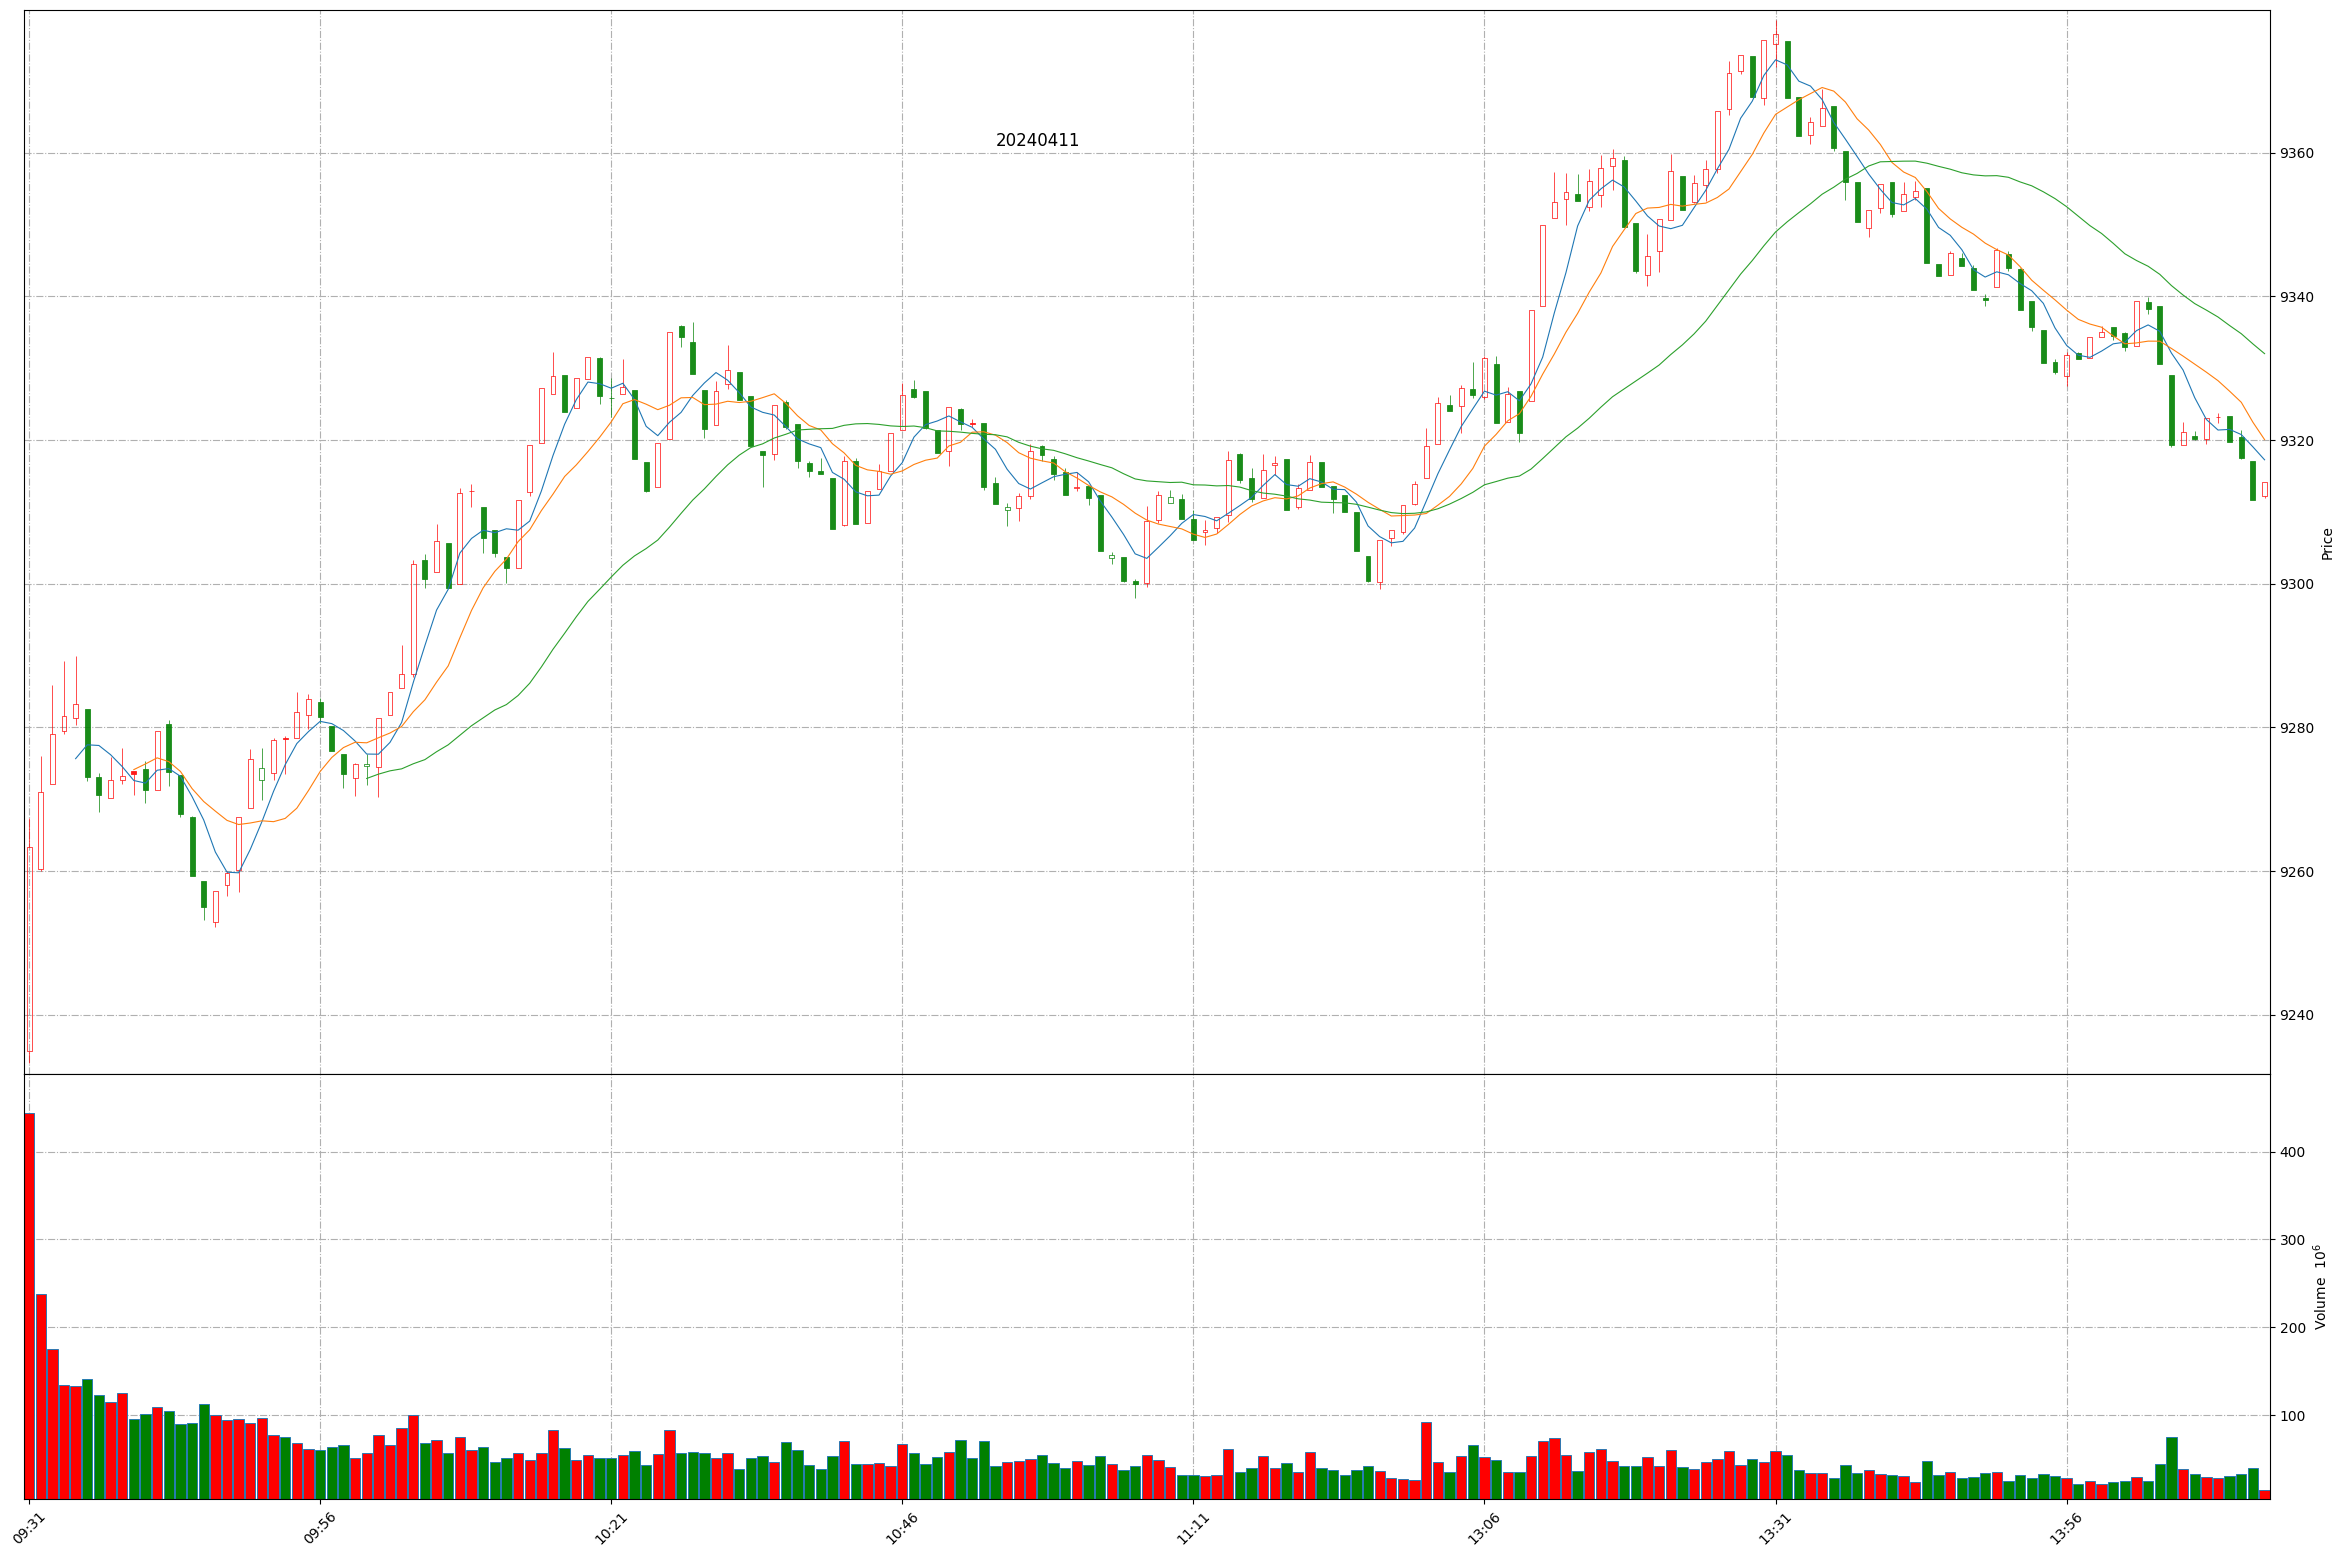
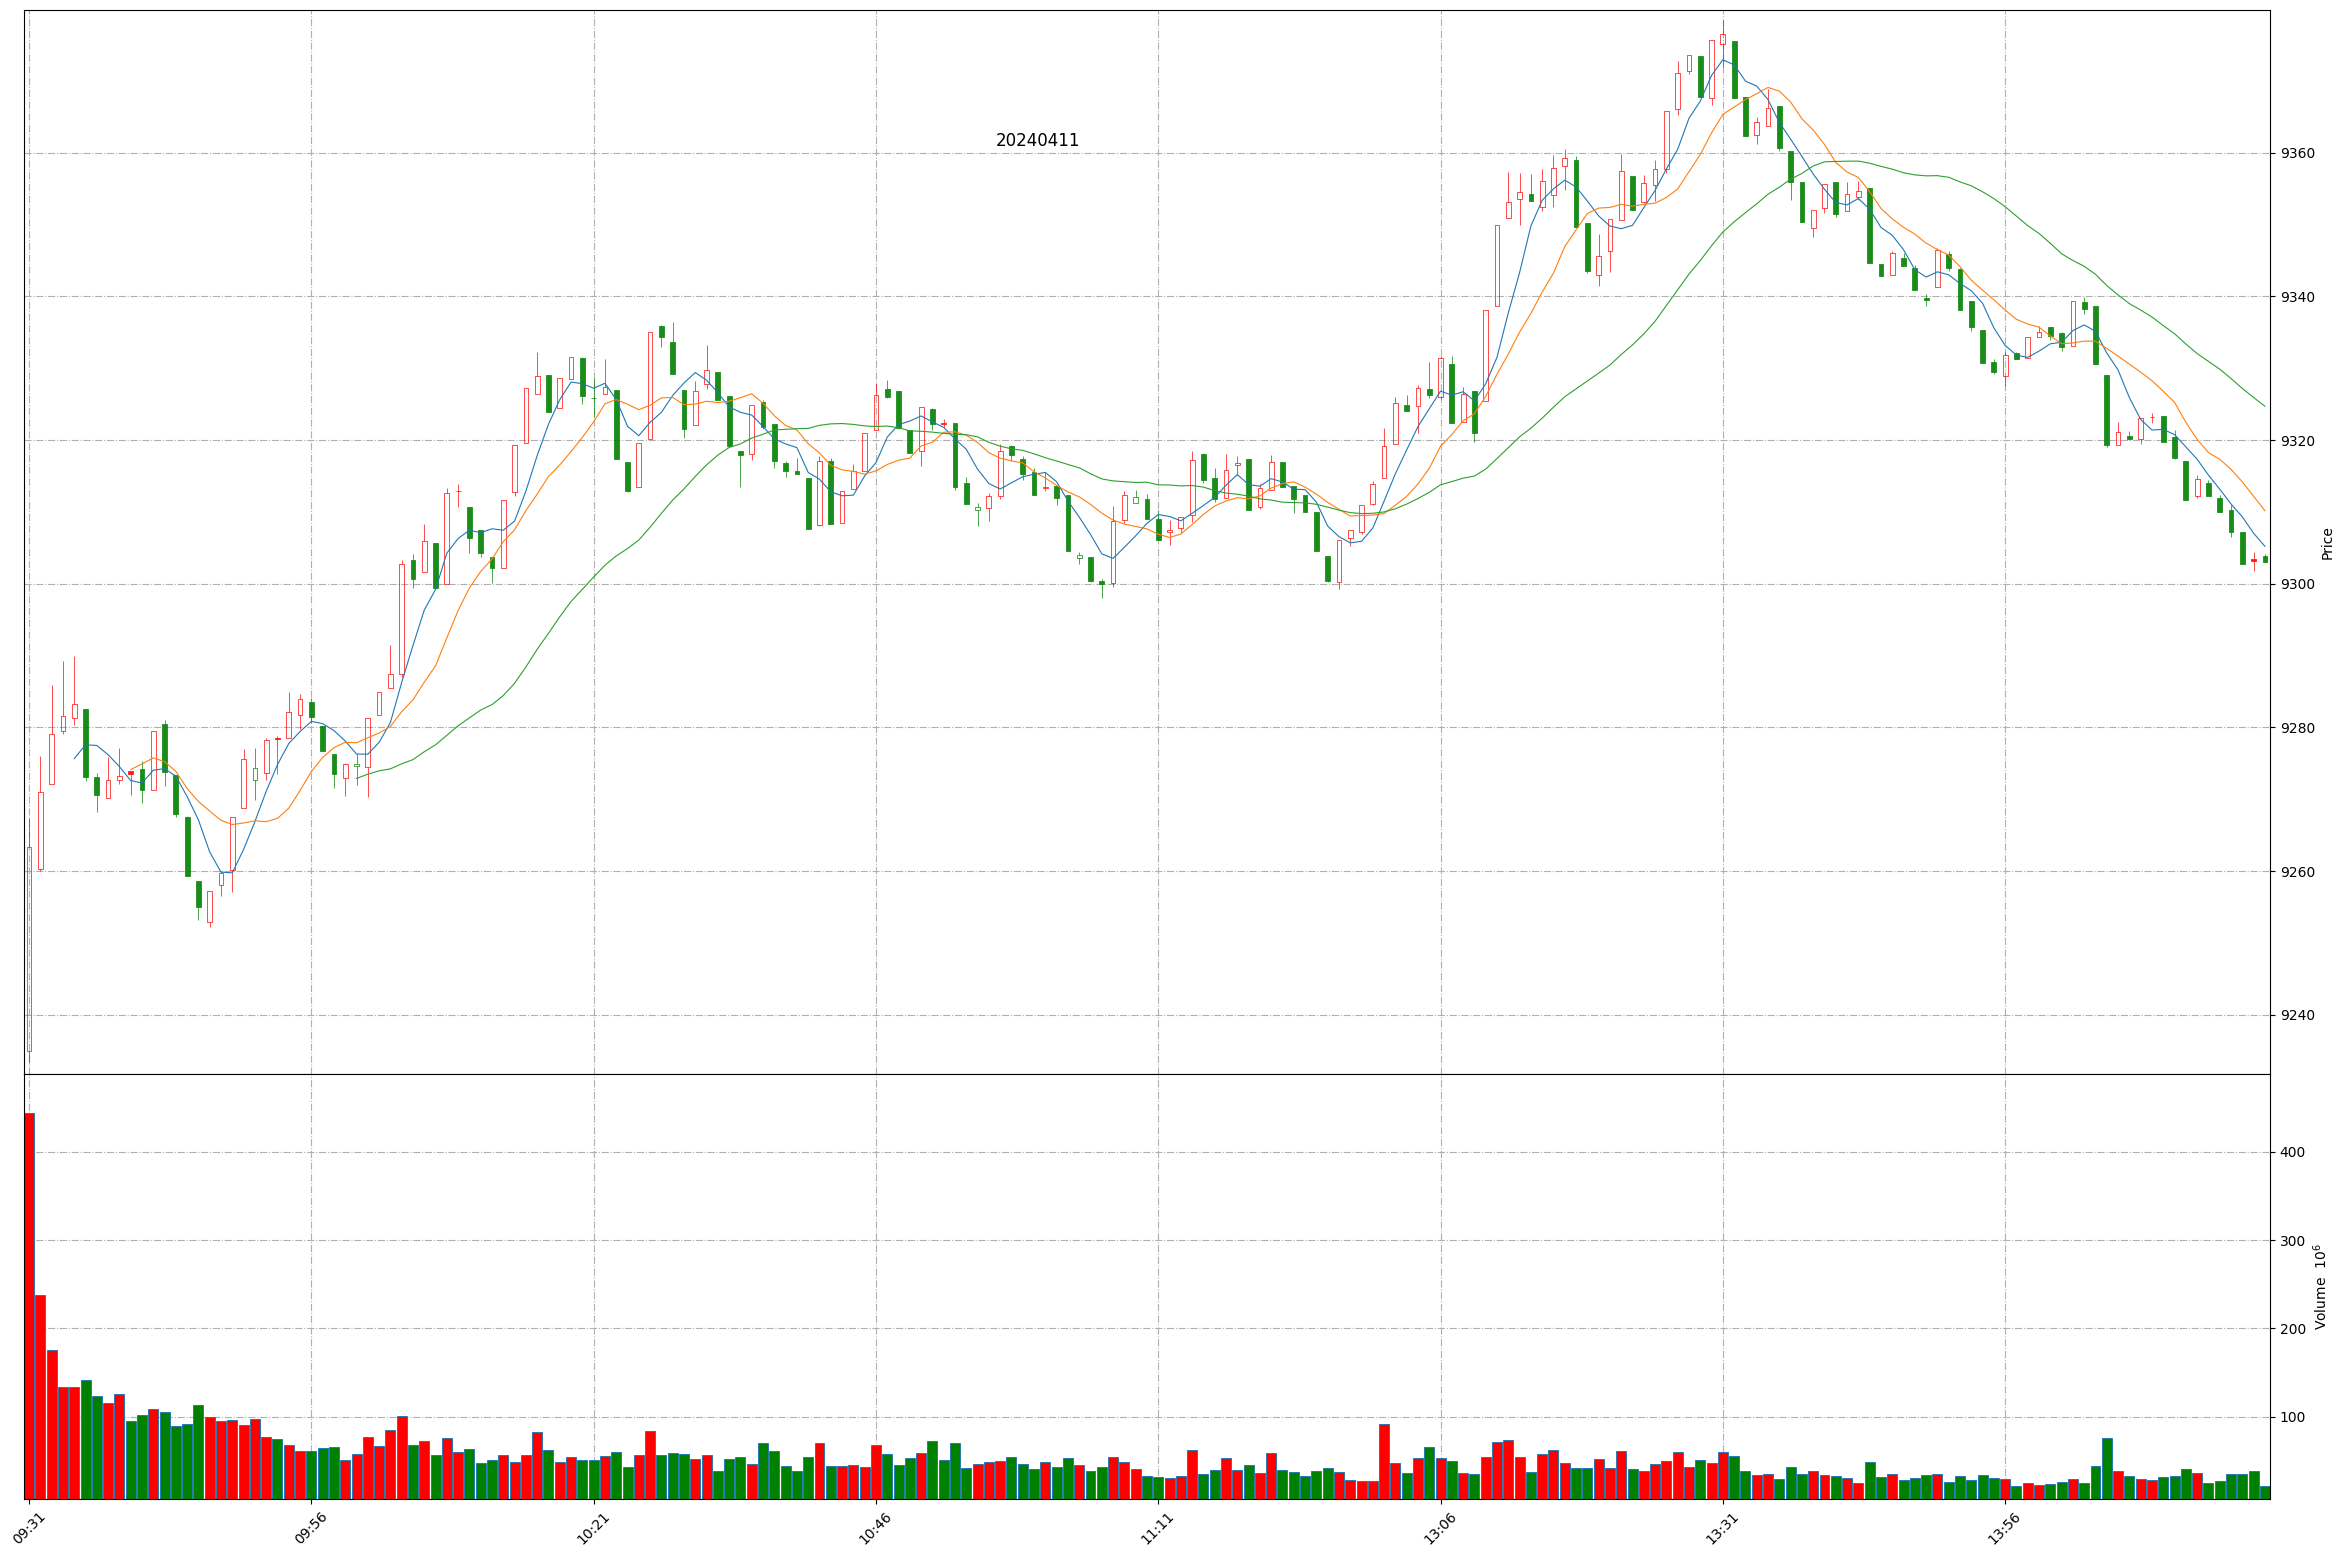
Github action update at 2024-04-11 14:18:52.

Changed region(s): [[0.0, 0.894, 0.9654, 0.9865], [0.0311, 0.2158, 0.654, 0.5857], [0.654, 0.0308, 0.9654, 0.3391]]

diff --git a/README.md b/README.md
@@ -1,11 +1,11 @@
 
 # Daily-A-share-market-quotes 每日 A 股指数（5min 更新）- 20240411
 
-### 上证指数 20240411 14:12
+### 上证指数 20240411 14:18
 ![](./fig/2024/4/20240411-sh000001.png)
 
-### 深证成指 20240411 14:12
+### 深证成指 20240411 14:18
 ![](./fig/2024/4/20240411-sz399001.png)
 
-### 北证50 20240411 14:12
+### 北证50 20240411 14:18
 ![](./fig/2024/4/20240411-bj899050.png)
